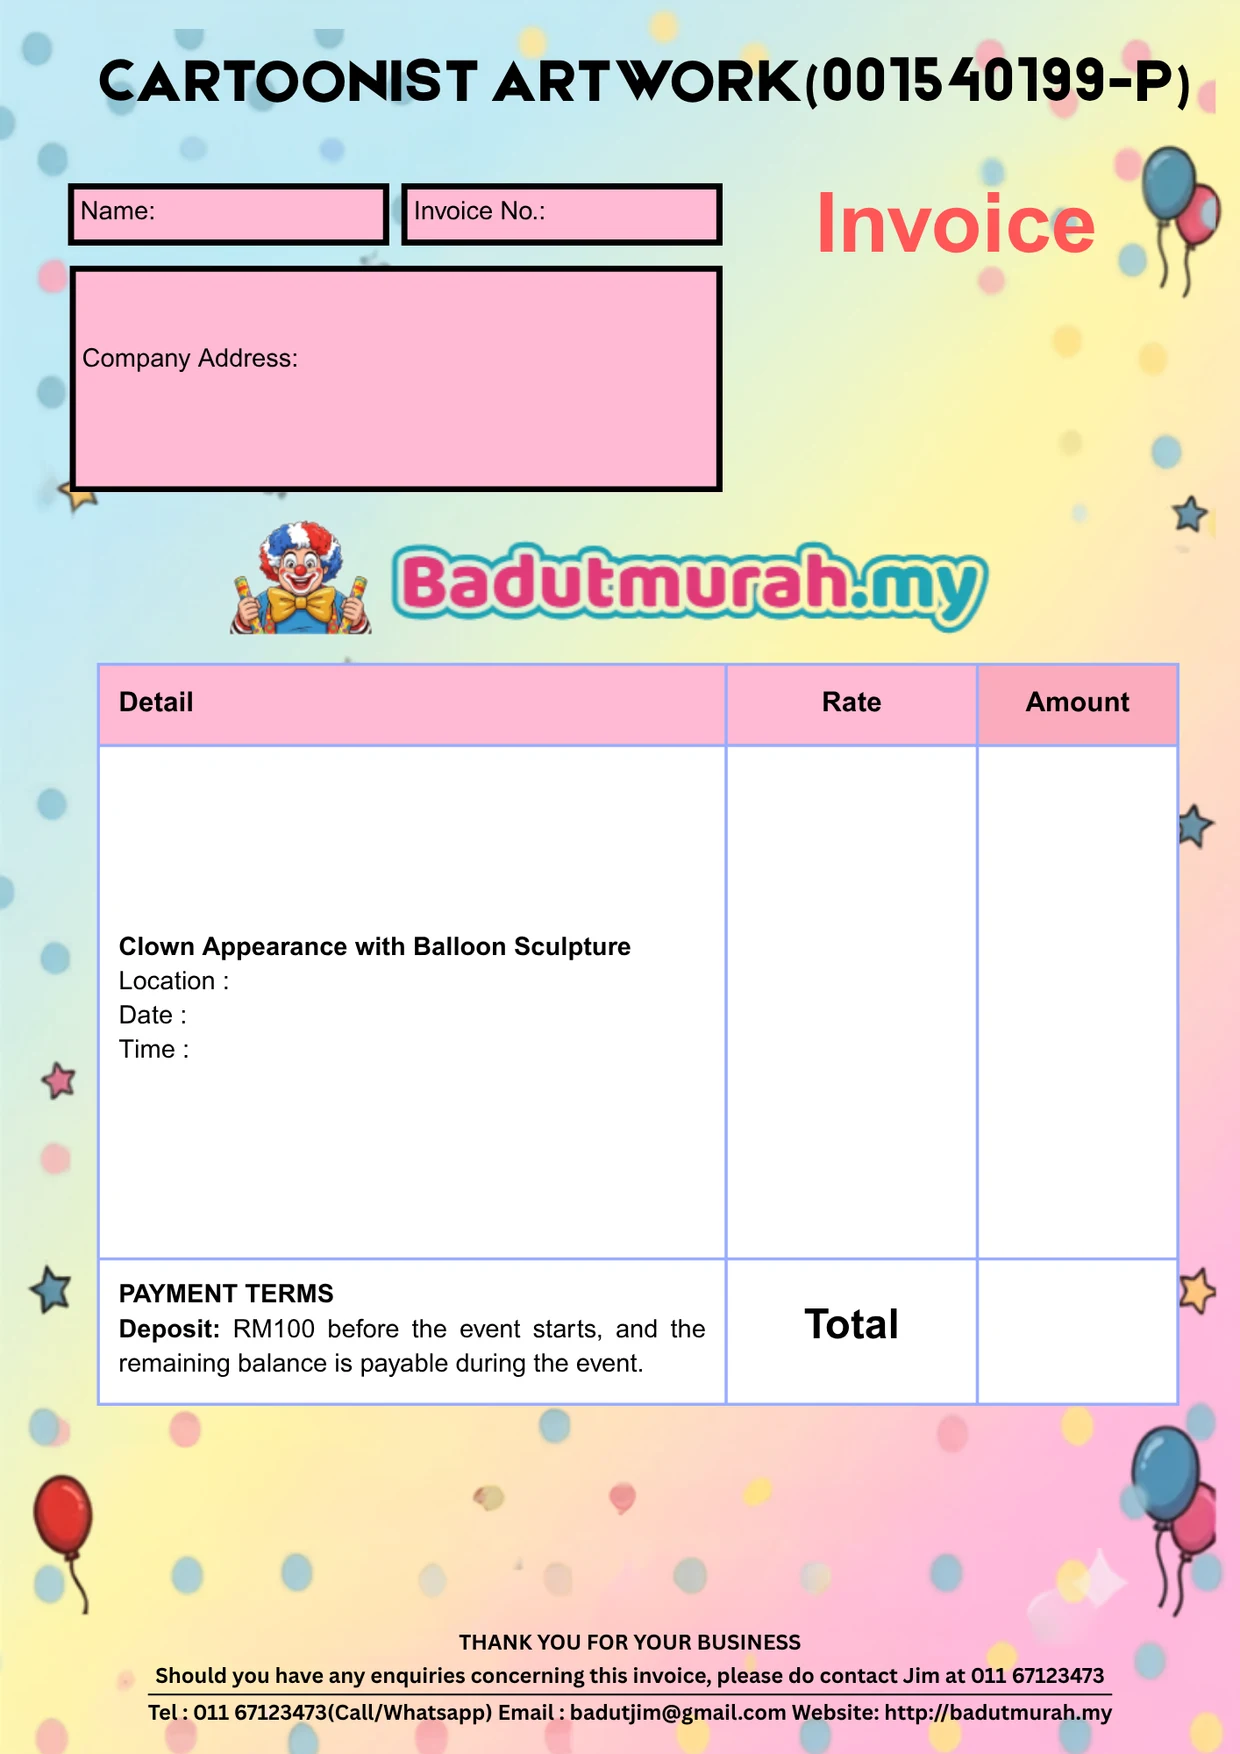
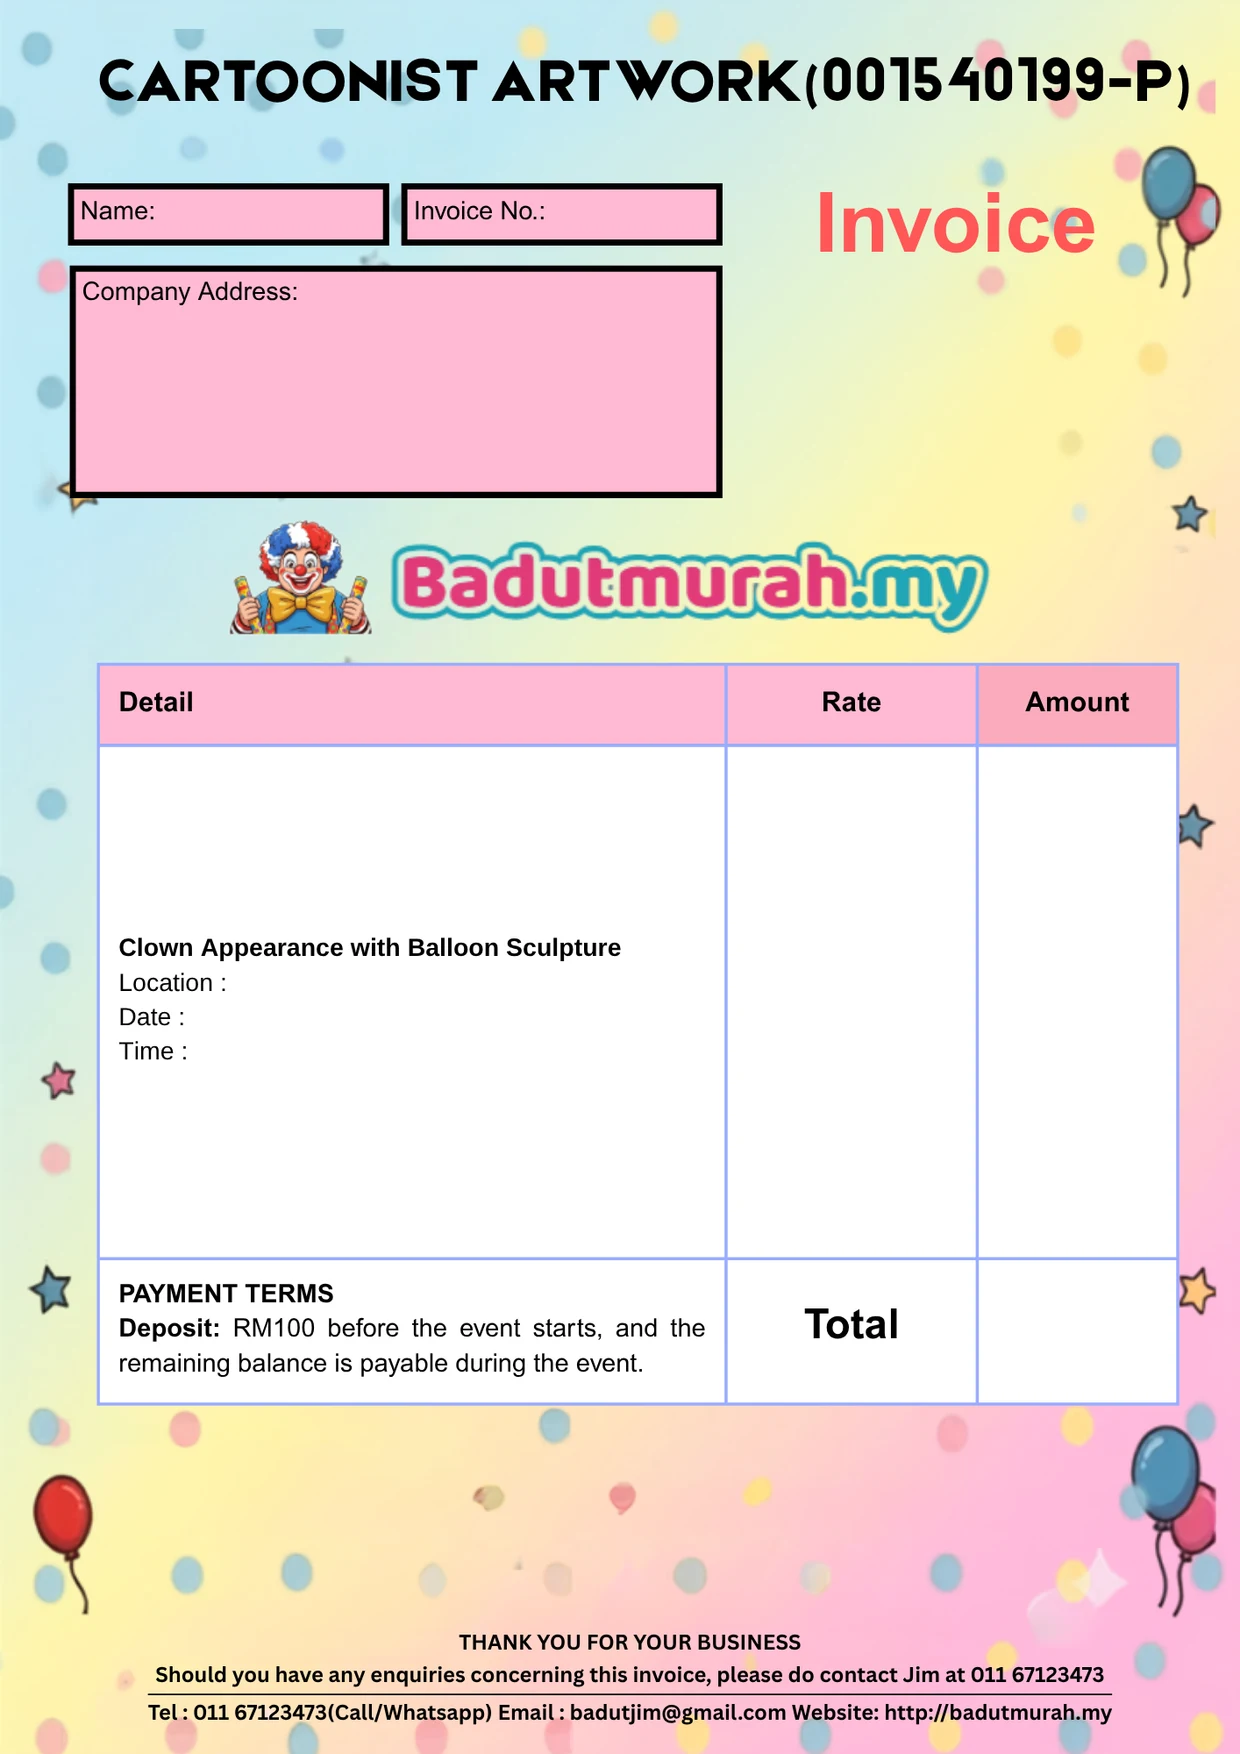
feat(documents): render on Canva artwork, normalise times, short doc numbers
- Documents draw onto the owner's Canva templates instead of a rebuilt HTML
  layout; positions measured off the artwork by pixel scan
- Company address now prints under its label with room for ~6 lines
- Rate shows a unit price ("RM180.00/hour") so a two-session booking explains
  its own total
- Free-text booking times ("7PM", "10pg", "3.30 petang") normalise to
  "10.00 a.m. - 11.00 a.m."; multiple sessions stack on separate lines
- Print sets the filename to "[Type] badutmurah.my (No.)"
- Receipt lock message reflects the new event-day rule
- Payment history no longer printed on documents

diff --git a/site/src/i18n/en.js b/site/src/i18n/en.js
@@ -169,7 +169,7 @@ export default {
     invoice: 'Invoice',
     receipt: 'Receipt',
     lockedInvoice: 'Available once your booking is confirmed',
-    lockedReceipt: 'Available once payment is recorded',
+    lockedReceipt: 'Available from the day of your event',
     billingHeading: 'Bill to',
     billingHint: 'Edit these if the document should be addressed differently, e.g. to a company.',
     billNama: 'Name',

diff --git a/site/src/i18n/ms.js b/site/src/i18n/ms.js
@@ -169,7 +169,7 @@ export default {
     invoice: 'Invois',
     receipt: 'Resit',
     lockedInvoice: 'Tersedia selepas booking disahkan',
-    lockedReceipt: 'Tersedia selepas pembayaran direkod',
+    lockedReceipt: 'Tersedia pada hari majlis anda',
     billingHeading: 'Bil kepada',
     billingHint: 'Edit jika dokumen perlu dialamatkan berbeza, contohnya kepada syarikat.',
     billNama: 'Nama',

diff --git a/site/docs/documents-spec.md b/site/docs/documents-spec.md
@@ -32,9 +32,20 @@ Kedua-dua perlukan header `X-Webhook-Secret` (secret sama dengan `/api/website-l
 
 | Jenis | Nombor | Bila tersedia |
 |---|---|---|
-| Quotation | `Q-YYYY-NNNN` | Sentiasa |
-| Invoice | `INV-YYYY-NNNN` | Status `confirmed` ke atas |
-| Receipt | `BJ-YYYY-NNNN` (= Bill No) | Selepas bayaran direkod |
+| Quotation | `Q-YY-NNNN` | Sentiasa |
+| Invoice | `INV-YY-NNNN` | Status `confirmed` ke atas |
+| Receipt | `BJ-YY-NNNN` (= Bill No) | Bayaran direkod **ATAU** tarikh majlis sudah tiba |
+
+`YY` ialah dua digit tahun (2026 → `26`), contoh `Q-26-0001`. Nombor pendek supaya muat
+dalam kotak "… No." pada artwork tanpa perlu mengecil.
+
+**Resit pada hari majlis:** dalam praktik Jim selalu terima bayaran pada hari majlis tetapi
+tidak sempat merekodnya dalam Hermes, jadi resit terkunci walaupun customer sudah bayar.
+Sebagai jalan tengah, resit dibuka apabila tarikh majlis tiba — walaupun `payment` masih
+kosong. `bill_no` dijana pada saat itu jika belum ada.
+
+Perbandingan tarikh mesti guna **waktu Malaysia (UTC+8)**, bukan UTC. Kalau guna UTC, resit
+kekal terkunci sehingga 8 pagi waktu tempatan pada hari majlis.
 
 Nombor dijana **sekali** oleh Hermes dan disimpan — buka dokumen sama sepuluh kali, nombor kekal.
 Bill No hanya wujud selepas bayaran, sebab itu quotation dan invoice ada siri sendiri.
